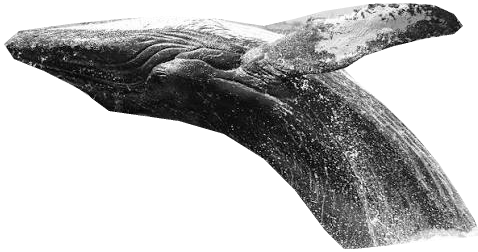
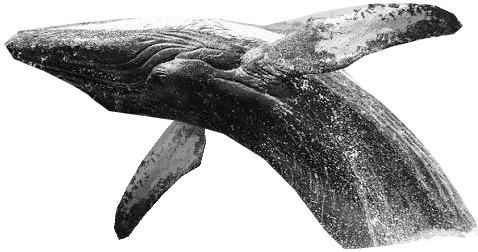
The whale: its far flipper shown under the throat, round stars around the dots print, no falling water.

Changed region(s): [[0.2343, 0.4722, 0.4393, 0.9444]]

diff --git a/apps/web/src/components/copy/DotWhale.tsx b/apps/web/src/components/copy/DotWhale.tsx
@@ -3,17 +3,20 @@
  * humpback breaching, taken from a photo and printed four ways, picked with the
  * small switch under it (remembered per browser):
  *
- *   Dots        a stipple print, the dots denser where the photo is lighter.
+ *   Dots        a stipple print, the dots denser where the photo is lighter, round
+ *               stars around it.
  *   Guilloche   a duotone with the crossed wavy lines of a banknote engraving.
  *   Engraving   cream paper and blue ink, lines running along the body, thicker
  *               where the photo is darker (an etching).
- *   Pixel       a dithered grid of dots on black, with a few stars around it.
+ *   Pixel       a dithered grid of dots on black, square stars around it.
  *
  * The photo is cut out by hand and kept as a tone map (whale-tone.png: grey =
  * the photo's light, alpha = the whale), equalised over the whale so its dark
- * skin spreads over the whole range. Little moves (owner, 2026-10-25): a slow
- * small bob, water falling off the tail, the dots giving where the pointer passes,
- * the stars twinkling. Still under reduced motion.
+ * skin spreads over the whole range. The photo hides the far flipper, which read
+ * as a whale with one fin, so the near one is mirrored in behind the body, down
+ * under the throat and in shadow, like the other wing (owner, 2026-10-25).
+ * Little moves: a slow small bob, the dots giving where the pointer passes, the
+ * stars twinkling; no falling water (owner, 2026-10-25). Still under reduced motion.
  */
 import { useEffect, useRef, useState } from 'react';
 import toneUrl from './whale-tone.png';
@@ -27,17 +30,16 @@ const STYLES: Array<{ id: WhaleStyle; label: string }> = [
 ];
 const KEY = 'vs:whale-style';
 
-/** The tone map's size; the box adds room under it for the falling water. */
+/** The tone map's size; the box adds a little room around it. */
 const TW = 478;
 const TH = 252;
 /** Room either side, so the fin tip clears the hero's edge fade. */
 const PAD = 18;
 const W = TW + PAD * 2;
-const H = 290;
+const H = 262;
 
-interface Tone { l: Float32Array; a: Float32Array; drips: Array<[number, number]> }
+interface Tone { l: Float32Array; a: Float32Array }
 interface Dot { x: number; y: number; r: number; a: number; ph: number; sp: number; dx: number; dy: number }
-interface Drop { x: number; y: number; vx: number; vy: number; r: number; life: number; max: number }
 
 let toneOnce: Promise<Tone> | null = null;
 function loadTone(): Promise<Tone> {
@@ -66,12 +68,7 @@ function loadTone(): Promise<Tone> {
       for (let v = 0; v < 256; v++) { run += hist[v]!; cdf[v] = total ? run / total : v / 255; }
       const l = new Float32Array(n);
       for (let i = 0; i < n; i++) l[i] = cdf[raw[i]!]!;
-      // Where water falls off: the tail's right edge, near the surface.
-      const drips: Array<[number, number]> = [];
-      for (let y = TH - 60; y < TH - 2; y += 2) {
-        for (let x = TW - 1; x > TW / 2; x--) if (a[y * TW + x]! > 0.5) { drips.push([x, y]); break; }
-      }
-      ok({ l, a, drips });
+      ok({ l, a });
     };
     img.onerror = () => fail(new Error('whale tone did not load'));
     img.src = toneUrl;
@@ -200,6 +197,9 @@ function sideField(line: Array<[number, number]>): Float32Array {
 /** The body's spine, head tip to tail, and the fin's axis (tone coordinates). */
 const SPINE: Array<[number, number]> = [[0, 44], [60, 50], [130, 58], [200, 72], [262, 94], [312, 124], [352, 160], [384, 202], [410, 252], [420, 290]];
 const FIN_AXIS: Array<[number, number]> = [[270, 70], [330, 38], [400, 18], [470, 14]];
+/** The far flipper (mirrored in behind the body, see the header), and its axis. */
+const FIN2: Array<[number, number]> = [[202, 89], [185, 109], [166, 129], [142, 161], [127, 187], [116, 211], [114, 229], [119, 241], [129, 237], [145, 216], [162, 195], [182, 176], [200, 166], [206, 143]];
+const FIN2_AXIS: Array<[number, number]> = [[232, 110], [183, 144], [139, 189], [107, 241]];
 /** The fin, where the engraving's lines follow its axis instead of the body's. */
 const FIN: Array<[number, number]> = [[264, 26], [294, 19], [324, 11], [369, 4], [404, 3], [434, 5], [454, 14], [463, 26], [454, 34], [424, 39], [394, 46], [364, 56], [344, 69], [318, 62]];
 function inPoly(p: Array<[number, number]>, x: number, y: number): boolean {
@@ -212,12 +212,18 @@ function inPoly(p: Array<[number, number]>, x: number, y: number): boolean {
   return c;
 }
 
-let fields: { body: Float32Array; fin: Float32Array; finMask: Float32Array } | null = null;
+let fields: { body: Float32Array; fin: Float32Array; finMask: Float32Array; fin2: Float32Array; fin2Mask: Float32Array } | null = null;
 function engravingFields() {
   if (fields) return fields;
   const mask = new Float32Array(TW * TH);
-  for (let y = 0; y < TH; y++) for (let x = 0; x < TW; x++) mask[y * TW + x] = inPoly(FIN, x, y) ? 1 : 0;
-  fields = { body: sideField(SPINE), fin: sideField(FIN_AXIS), finMask: mask };
+  const mask2 = new Float32Array(TW * TH);
+  for (let y = 0; y < TH; y++) {
+    for (let x = 0; x < TW; x++) {
+      mask[y * TW + x] = inPoly(FIN, x, y) ? 1 : 0;
+      mask2[y * TW + x] = inPoly(FIN2, x, y) ? 1 : 0;
+    }
+  }
+  fields = { body: sideField(SPINE), fin: sideField(FIN_AXIS), finMask: mask, fin2: sideField(FIN2_AXIS), fin2Mask: mask2 };
   return fields;
 }
 
@@ -233,7 +239,9 @@ function engraving(t: Tone, w: number, h: number, scale: number, ox: number, oy:
     if (a <= 0.01) return;
     const l = samp(t.l, u, v);
     const m = samp(f.finMask, u, v);
-    const dist = samp(f.body, u, v) * (1 - m) + samp(f.fin, u, v) * m;
+    // The far flipper only where the body does not cover it.
+    const m2 = samp(f.fin2Mask, u, v) * (1 - m) * (samp(f.body, u, v) > 0 ? 1 : 0);
+    const dist = samp(f.body, u, v) * (1 - m - m2) + samp(f.fin, u, v) * m + samp(f.fin2, u, v) * m2;
     // The burin's hand: the lines wander a little, and break up in the lights.
     const phase = dist / period + 0.18 * Math.sin(u / 3.3 + v / 9) + 0.1 * Math.sin(u / 1.3 - v / 2.1);
     const off = Math.abs((((phase % 1) + 1) % 1) - 0.5) * 2;
@@ -317,7 +325,6 @@ export function DotWhale() {
     let tone: Tone | null = null;
     let dots: Dot[] = [];
     let print: HTMLCanvasElement | null = null;
-    const drops: Drop[] = [];
     const stars = Array.from({ length: 120 }, () => ({ x: Math.random(), y: Math.random(), s: Math.random() < 0.15 ? 2 : 1, a: 0.15 + Math.random() * 0.6, ph: Math.random() * Math.PI * 2, sp: 0.3 + Math.random() * 0.8 }));
     const pointer = { x: -1e4, y: -1e4 };
     let scale = 1;
@@ -325,16 +332,8 @@ export function DotWhale() {
     let oy = 0;
     let raf = 0;
     let last = 0;
-    let prev = 0;
     let gone = false;
 
-    const dropColor = style === 'guilloche' ? '#f1d9d6' : style === 'engraving' ? '#f7eedd' : style === 'pixel' ? '#e4e4e4' : '';
-    const spawn = () => {
-      const drips = tone?.drips;
-      if (!drips?.length) return;
-      const [x, y] = drips[Math.floor(Math.random() * drips.length)]!;
-      drops.push({ x: x + (Math.random() - 0.5) * 3, y: y - Math.random() * 3, vx: (Math.random() - 0.5) * 2, vy: 1 + Math.random() * 5, r: 0.7 + Math.random() * 0.9, life: 0, max: 1.4 + Math.random() * 1.8 });
-    };
 
     const build = () => {
       if (!tone) return;
@@ -362,21 +361,27 @@ export function DotWhale() {
       ctx.fill();
     };
     const draw = (t: number) => {
-      const dt = prev ? Math.min(0.05, (t - prev) / 1000) : 0;
-      prev = t;
       ctx.clearRect(0, 0, canvas.width, canvas.height);
       if (!tone) return;
       const bob = still ? 0 : Math.sin(t / 4200) * 1.4;
-      if (style === 'pixel') {
-        ctx.fillStyle = '#e4e4e4';
+      if (style === 'pixel' || style === 'dots') {
+        ctx.fillStyle = style === 'pixel' ? '#e4e4e4' : getComputedStyle(el).color || '#e8e8e8';
+        const dpr = Math.min(2, window.devicePixelRatio || 1);
         for (const s of stars) {
           ctx.globalAlpha = s.a * (still ? 1 : 0.55 + 0.45 * Math.sin((t / 1000) * s.sp + s.ph));
-          ctx.fillRect(Math.round(s.x * canvas.width), Math.round(s.y * canvas.height), s.s, s.s);
+          const x = Math.round(s.x * canvas.width);
+          const y = Math.round(s.y * canvas.height);
+          if (style === 'pixel') ctx.fillRect(x, y, s.s, s.s);
+          else {
+            ctx.beginPath();
+            ctx.arc(x, y, s.s * 0.6 * dpr, 0, Math.PI * 2);
+            ctx.fill();
+          }
         }
         ctx.globalAlpha = 1;
       }
       if (print) ctx.drawImage(print, 0, Math.round(bob * scale));
-      ctx.fillStyle = dropColor || getComputedStyle(el).color || '#e8e8e8';
+      ctx.fillStyle = getComputedStyle(el).color || '#e8e8e8';
       if (style === 'dots') {
         const reach = 70 * scale;
         for (const d of dots) {
@@ -395,25 +400,6 @@ export function DotWhale() {
           const tw = still ? 1 : 0.88 + 0.12 * Math.sin((t / 1300) * d.sp + d.ph);
           dot(d.x + d.dx, d.y + bob + d.dy, d.r, d.a * tw);
         }
-      }
-      // The water running off the tail: down under gravity, fading as it falls.
-      if (!still) {
-        if (Math.random() < 0.7) spawn();
-        for (let i = drops.length - 1; i >= 0; i--) {
-          const p = drops[i]!;
-          p.life += dt;
-          p.vy += 55 * dt;
-          p.x += p.vx * dt;
-          p.y += p.vy * dt;
-          if (p.life > p.max || p.y > H + 4) { drops.splice(i, 1); continue; }
-          const a = 0.9 * (1 - p.life / p.max);
-          if (style === 'pixel') {
-            const cell = 2.6 * scale;
-            ctx.globalAlpha = a;
-            ctx.fillRect(Math.round(ox + Math.round(p.x / 2.6) * cell), Math.round(oy + Math.round((p.y + bob) / 2.6) * cell), Math.max(1, cell * 0.42), Math.max(1, cell * 0.42));
-          } else dot(p.x, p.y + bob, p.r, a);
-        }
-        if (drops.length > 700) drops.splice(0, drops.length - 700);
       }
       ctx.globalAlpha = 1;
     };
@@ -438,7 +424,6 @@ export function DotWhale() {
       if (gone) return;
       tone = t;
       build();
-      if (!still) for (let i = 0; i < 45; i++) { spawn(); drops[drops.length - 1]!.life = Math.random() * 1.4; }
       if (still) draw(0);
     }).catch(() => { /* no art, the hero still reads */ });
     if (!still) raf = requestAnimationFrame(loop);
